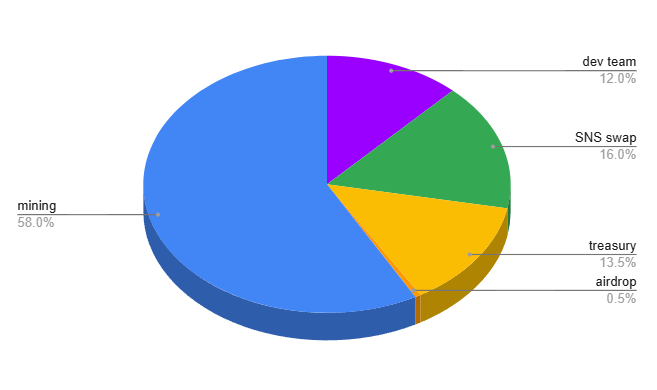
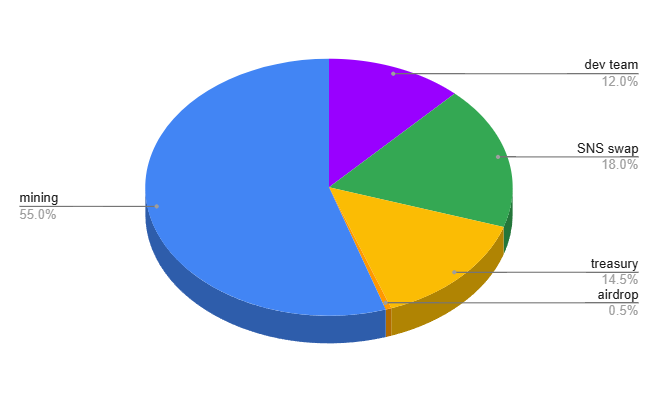
GITBOOK-30: No subject

diff --git a/doc/tokenomics.md b/doc/tokenomics.md
@@ -22,7 +22,7 @@ Dsonance uses each DAO's native token to facilitate the redirection of empirical
 
 The DSN token serves as a utility and governance token for the Dsonance platform:
 
-* **Rewards** – 58% of the token is distributed to active participants.
+* **Rewards** – 55% of the token is distributed to active participants.
 * **Burn Mechanism** – Required for certain platform actions, such as opening new communities or boosting vote rewards.
 * **Collateral** – Used to borrow DAO's coins.
 * **Governance** – Locked in neurons, enabling participation in decisions shaping the future of Dsonance.
@@ -46,18 +46,18 @@ To reinforce this deflationary shift, 10% of all DAO coin yield generated by the
 
 #### **DSN Token Allocation**
 
-<figure><img src=".gitbook/assets/image (1).png" alt=""><figcaption></figcaption></figure>
+<figure><img src=".gitbook/assets/image.png" alt=""><figcaption></figcaption></figure>
 
 The total supply of DSN will be **1 billion tokens** distributed as follows:
 
 * **120 million DSN (12%) – Dev team**\
   Reserved as a **reward and incentive for the development team** for their contributions to the project.
-* **160 million DSN (16%) – SNS Decentralization Swap**\
+* **180 million DSN (18%) – SNS Decentralization Swap**\
   Allocated for the SNS swap, ensuring broad community ownership and decentralized governance.
-* **135 million DSN (13.5%) – Treasury**\
+* **145 million DSN (14.5%) – Treasury**\
   Held in reserve for future initiatives, partnerships, ecosystem grants, and unforeseen needs.
 * **5 million DSN (0.5%) – Airdrop**\
   A small portion dedicated to initial distribution, rewarding early adopters and fostering community engagement while minimizing the risk of excessive sell pressure.
-* **580 million DSN (58%) – Mining**\
+* **550 million DSN (55%) – Mining**\
   Gradually distributed to users over time as incentives for opening votes and voting, following an **exponential halving model every four years**, ensuring long-term engagement and sustainable growth.
 
